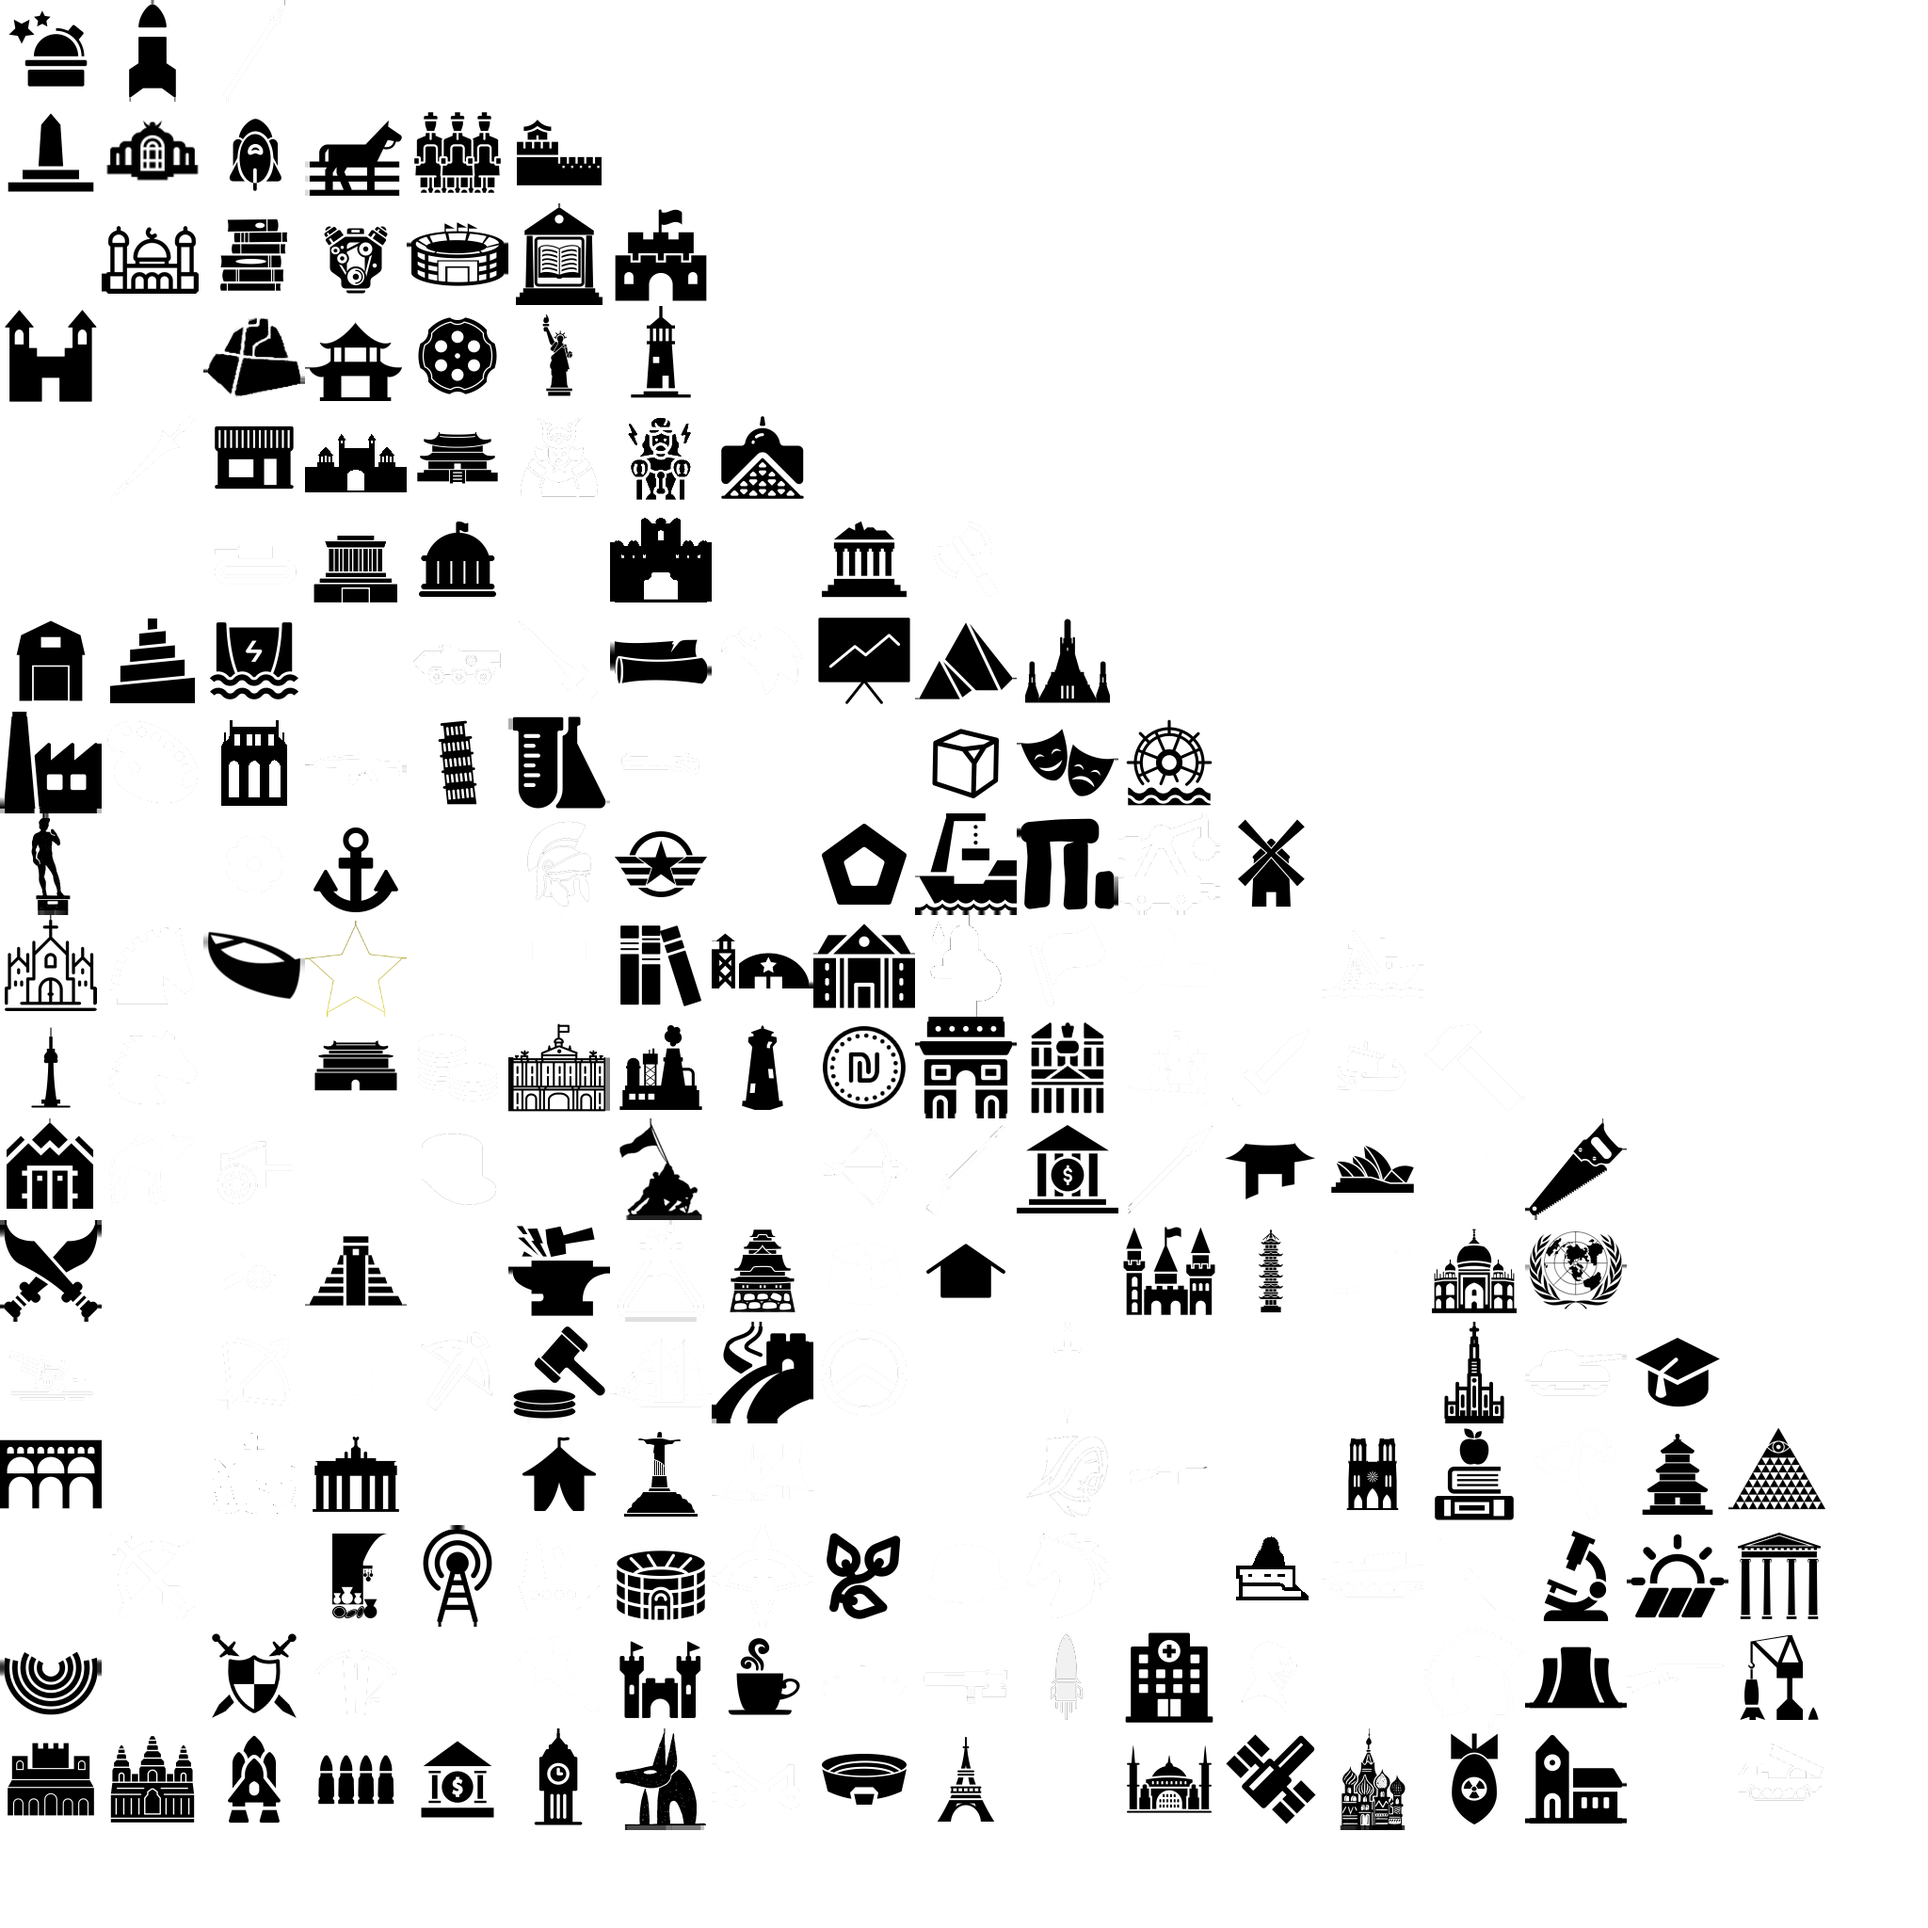
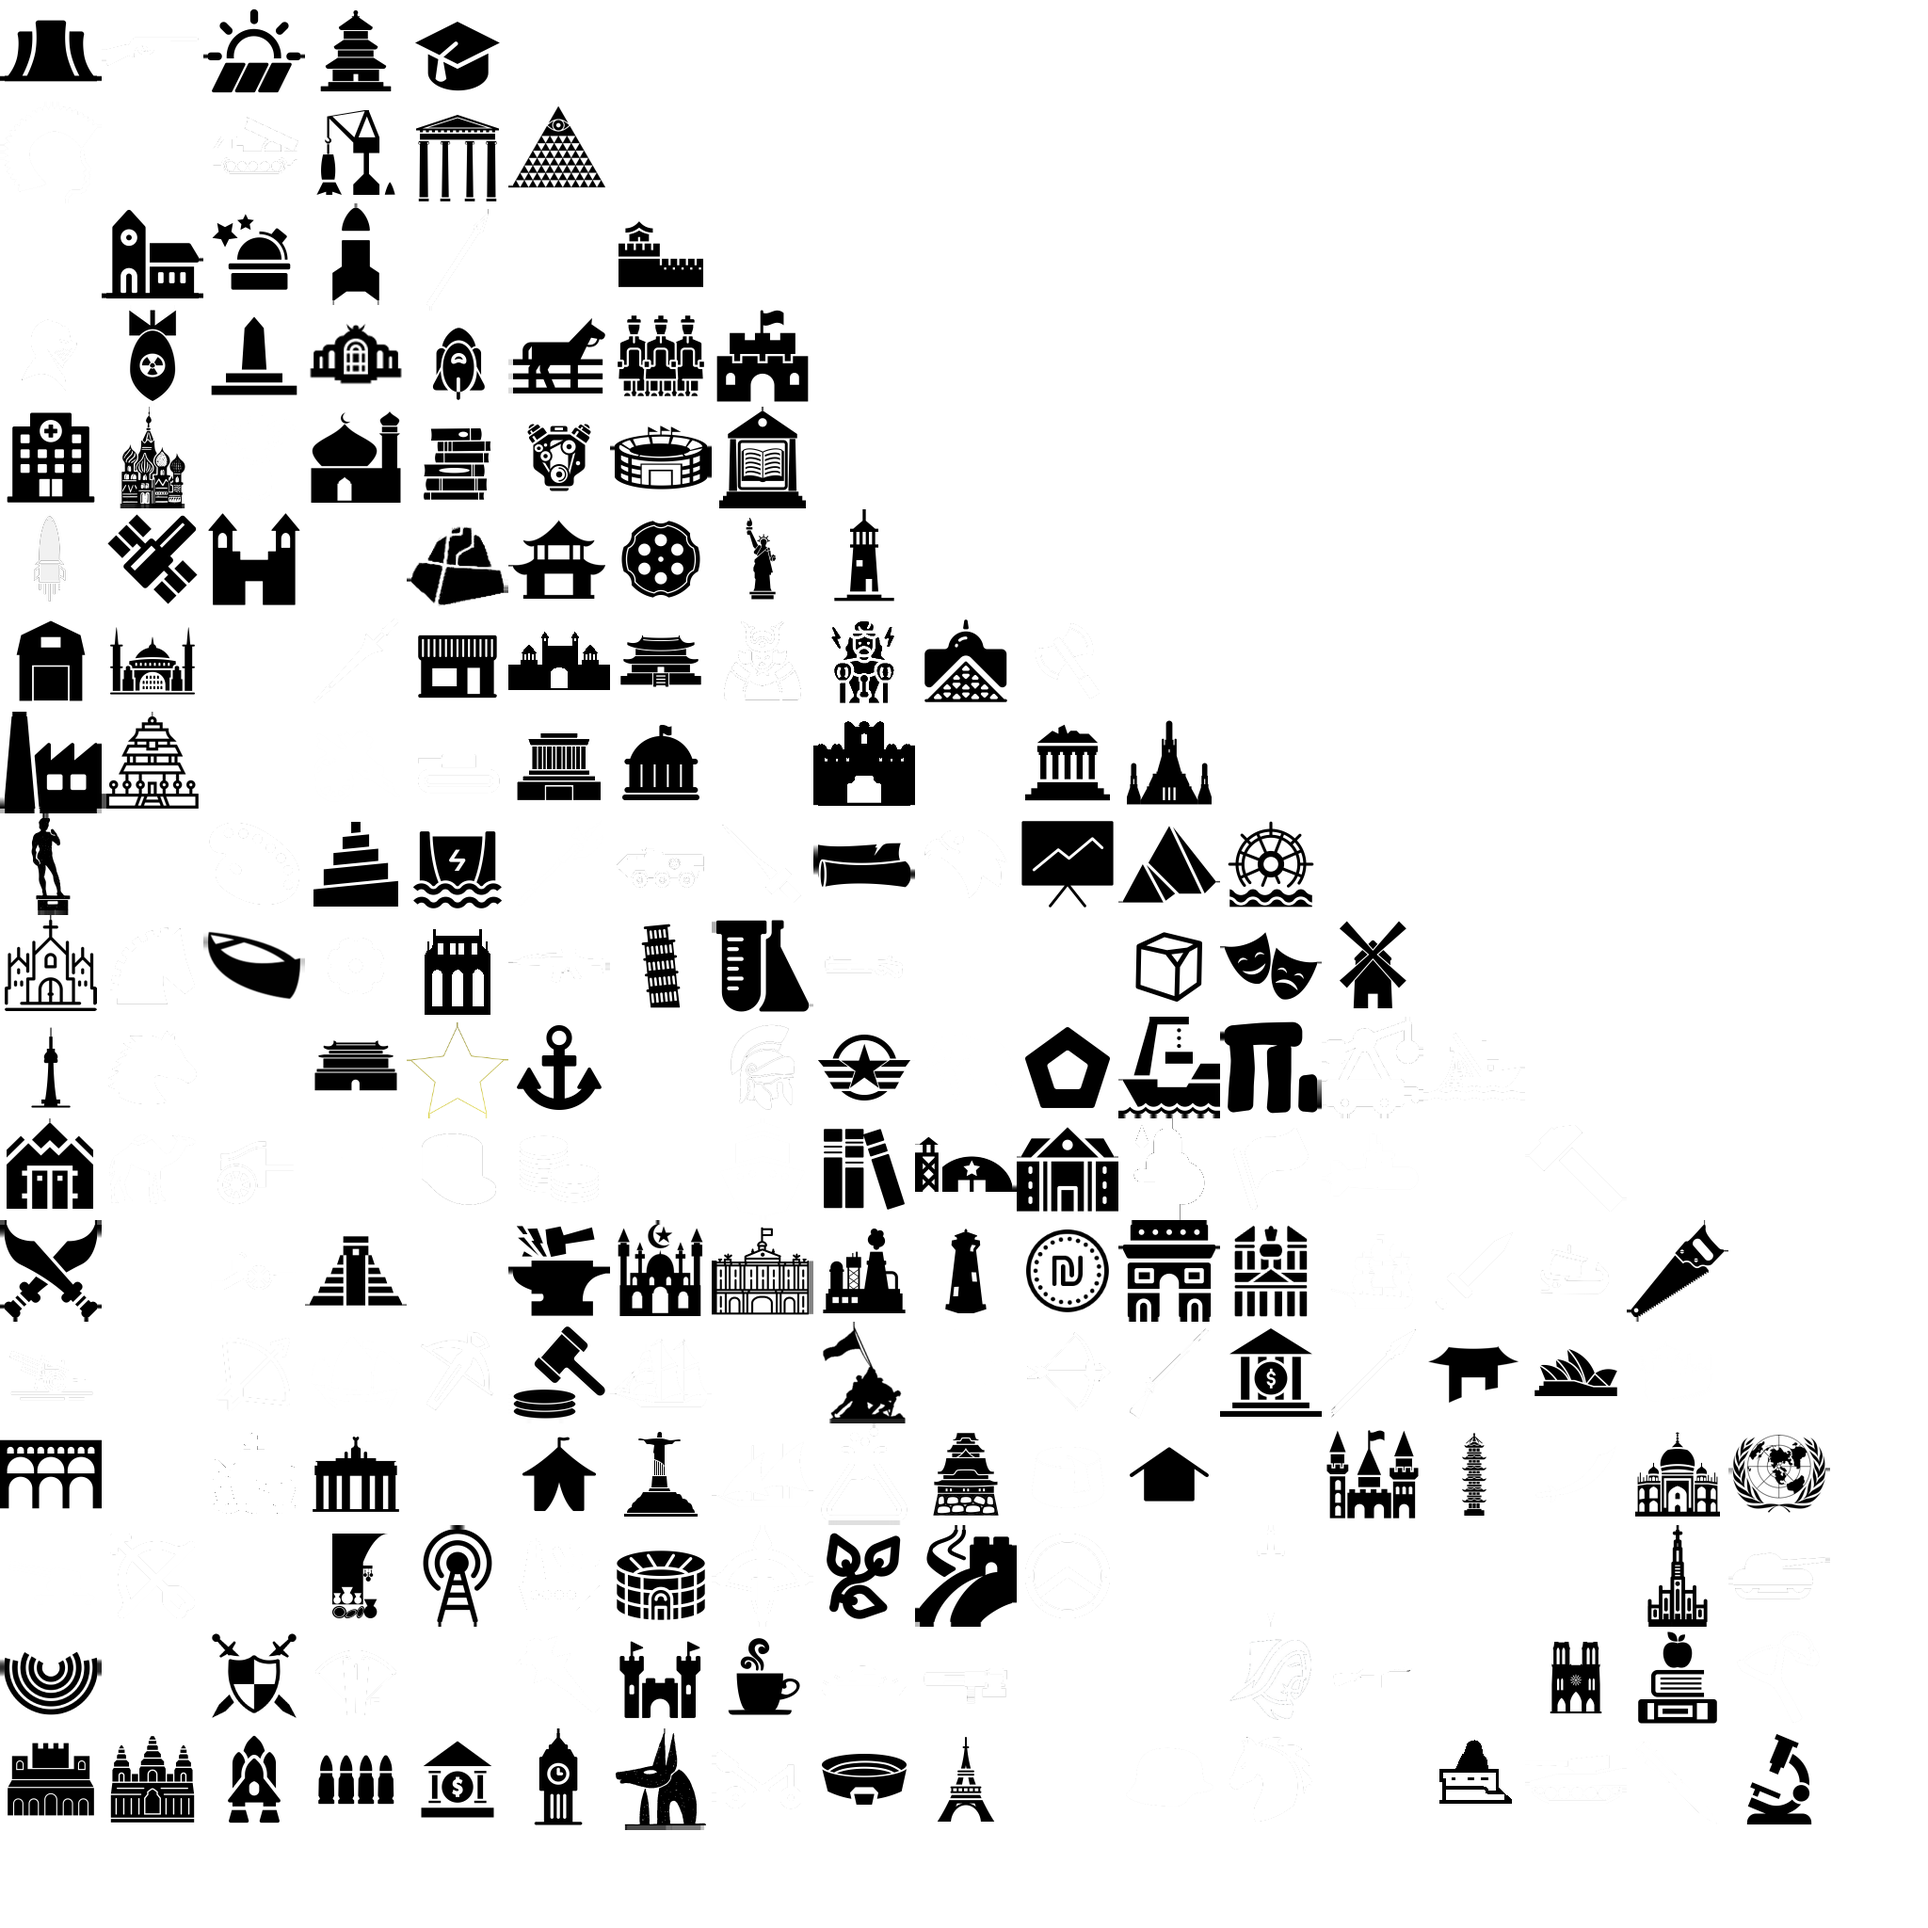
Added Grand Temple and Great Mosque of Djenne buildings

diff --git a/docs/Credits.md b/docs/Credits.md
@@ -264,6 +264,7 @@ Unless otherwise specified, all the following are from [the Noun Project](https:
 * [Shield and Swords](https://thenounproject.com/term/shield-and-swords/1477527/) By Alina Oleynik for Armory
 * [Machu Picchu](https://thenounproject.com/browse/?i=1678226/) By [Chanut is Industries](https://thenounproject.com/chanut-is)
 * [Garden](https://thenounproject.com/search/?q=garden&i=1478380) By Bharat
+* [Mosque](https://thenounproject.com/search/?q=mosque&i=2458353) by yanti for Great Mosque of Djenne
 
 ### Renaissance Era
 
@@ -332,7 +333,7 @@ Unless otherwise specified, all the following are from [the Noun Project](https:
 * [Illuminati](https://thenounproject.com/term/illuminati/1617812) by emilegraphics for the Utopia Project
 * [Christian Church](https://thenounproject.com/term/christian-church/1174183/) by Andrejs Kirma for Monastery
 * [cathedral](https://thenounproject.com/search/?q=Cathedral&i=4136407) by Pixel Bazaar for Cathedral
-* [Mosque](https://thenounproject.com/search/?q=mosque&i=4139519) by Ahmad Roaayala for Mosque
+* [Mosque](https://thenounproject.com/search/?q=mosque&i=1744106) by yanti for Mosque
 * [Pagoda](https://thenounproject.com/search/?q=pagoda&i=446665) by Xinh Studio for Pagoda 
 
 
